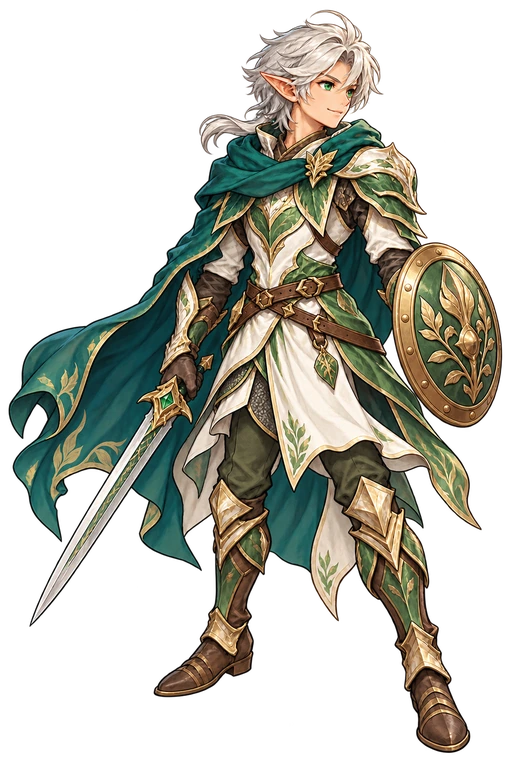
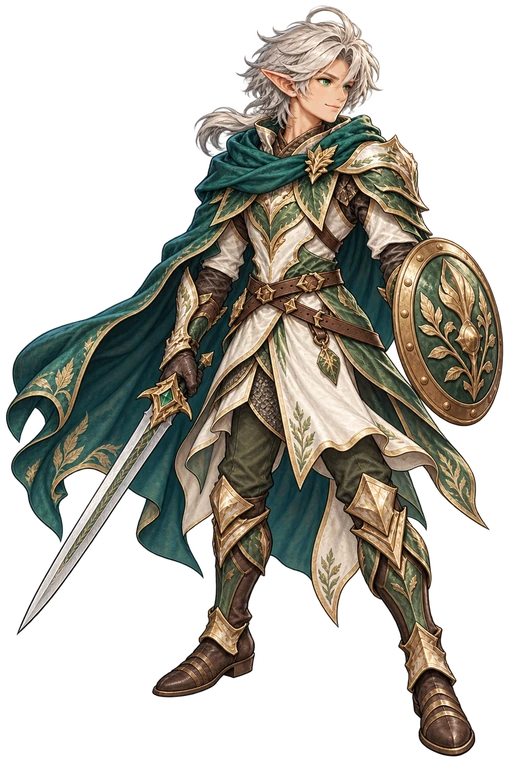
Refresh Sylve portrait and enlarge compact league panel

diff --git a/apps/web/src/player-header.css b/apps/web/src/player-header.css
@@ -129,11 +129,11 @@
 }
 .player-header-actions .league-panel.is-compact {
   width: fit-content;
-  min-width: 0;
-  min-height: 44px;
+  min-width: 144px;
+  min-height: 48px;
   max-width: 340px;
-  gap: 12px;
-  padding: 3px 12px 3px 8px;
+  gap: 16px;
+  padding: 5px 18px 5px 14px;
   margin: 0;
 }
 .player-header-actions .league-badge {
@@ -149,12 +149,13 @@
   gap: 12px;
 }
 .player-header-actions .league-panel .trophy-amount {
-  gap: 3px;
-  font-size: 12px;
+  gap: 6px;
+  font-size: 15px;
+  font-weight: 700;
 }
 .player-header-actions .league-panel .trophy-icon {
-  width: 19px;
-  height: 19px;
+  width: 22px;
+  height: 22px;
 }
 .sylve-settings-trigger {
   display: grid;
@@ -361,6 +362,7 @@
   .player-header-actions .league-panel.is-compact,
   .player-league-loading {
     width: 100%;
+    min-width: 0;
     max-width: none;
     height: 64px;
     padding: 5px 9px 5px 5px;
